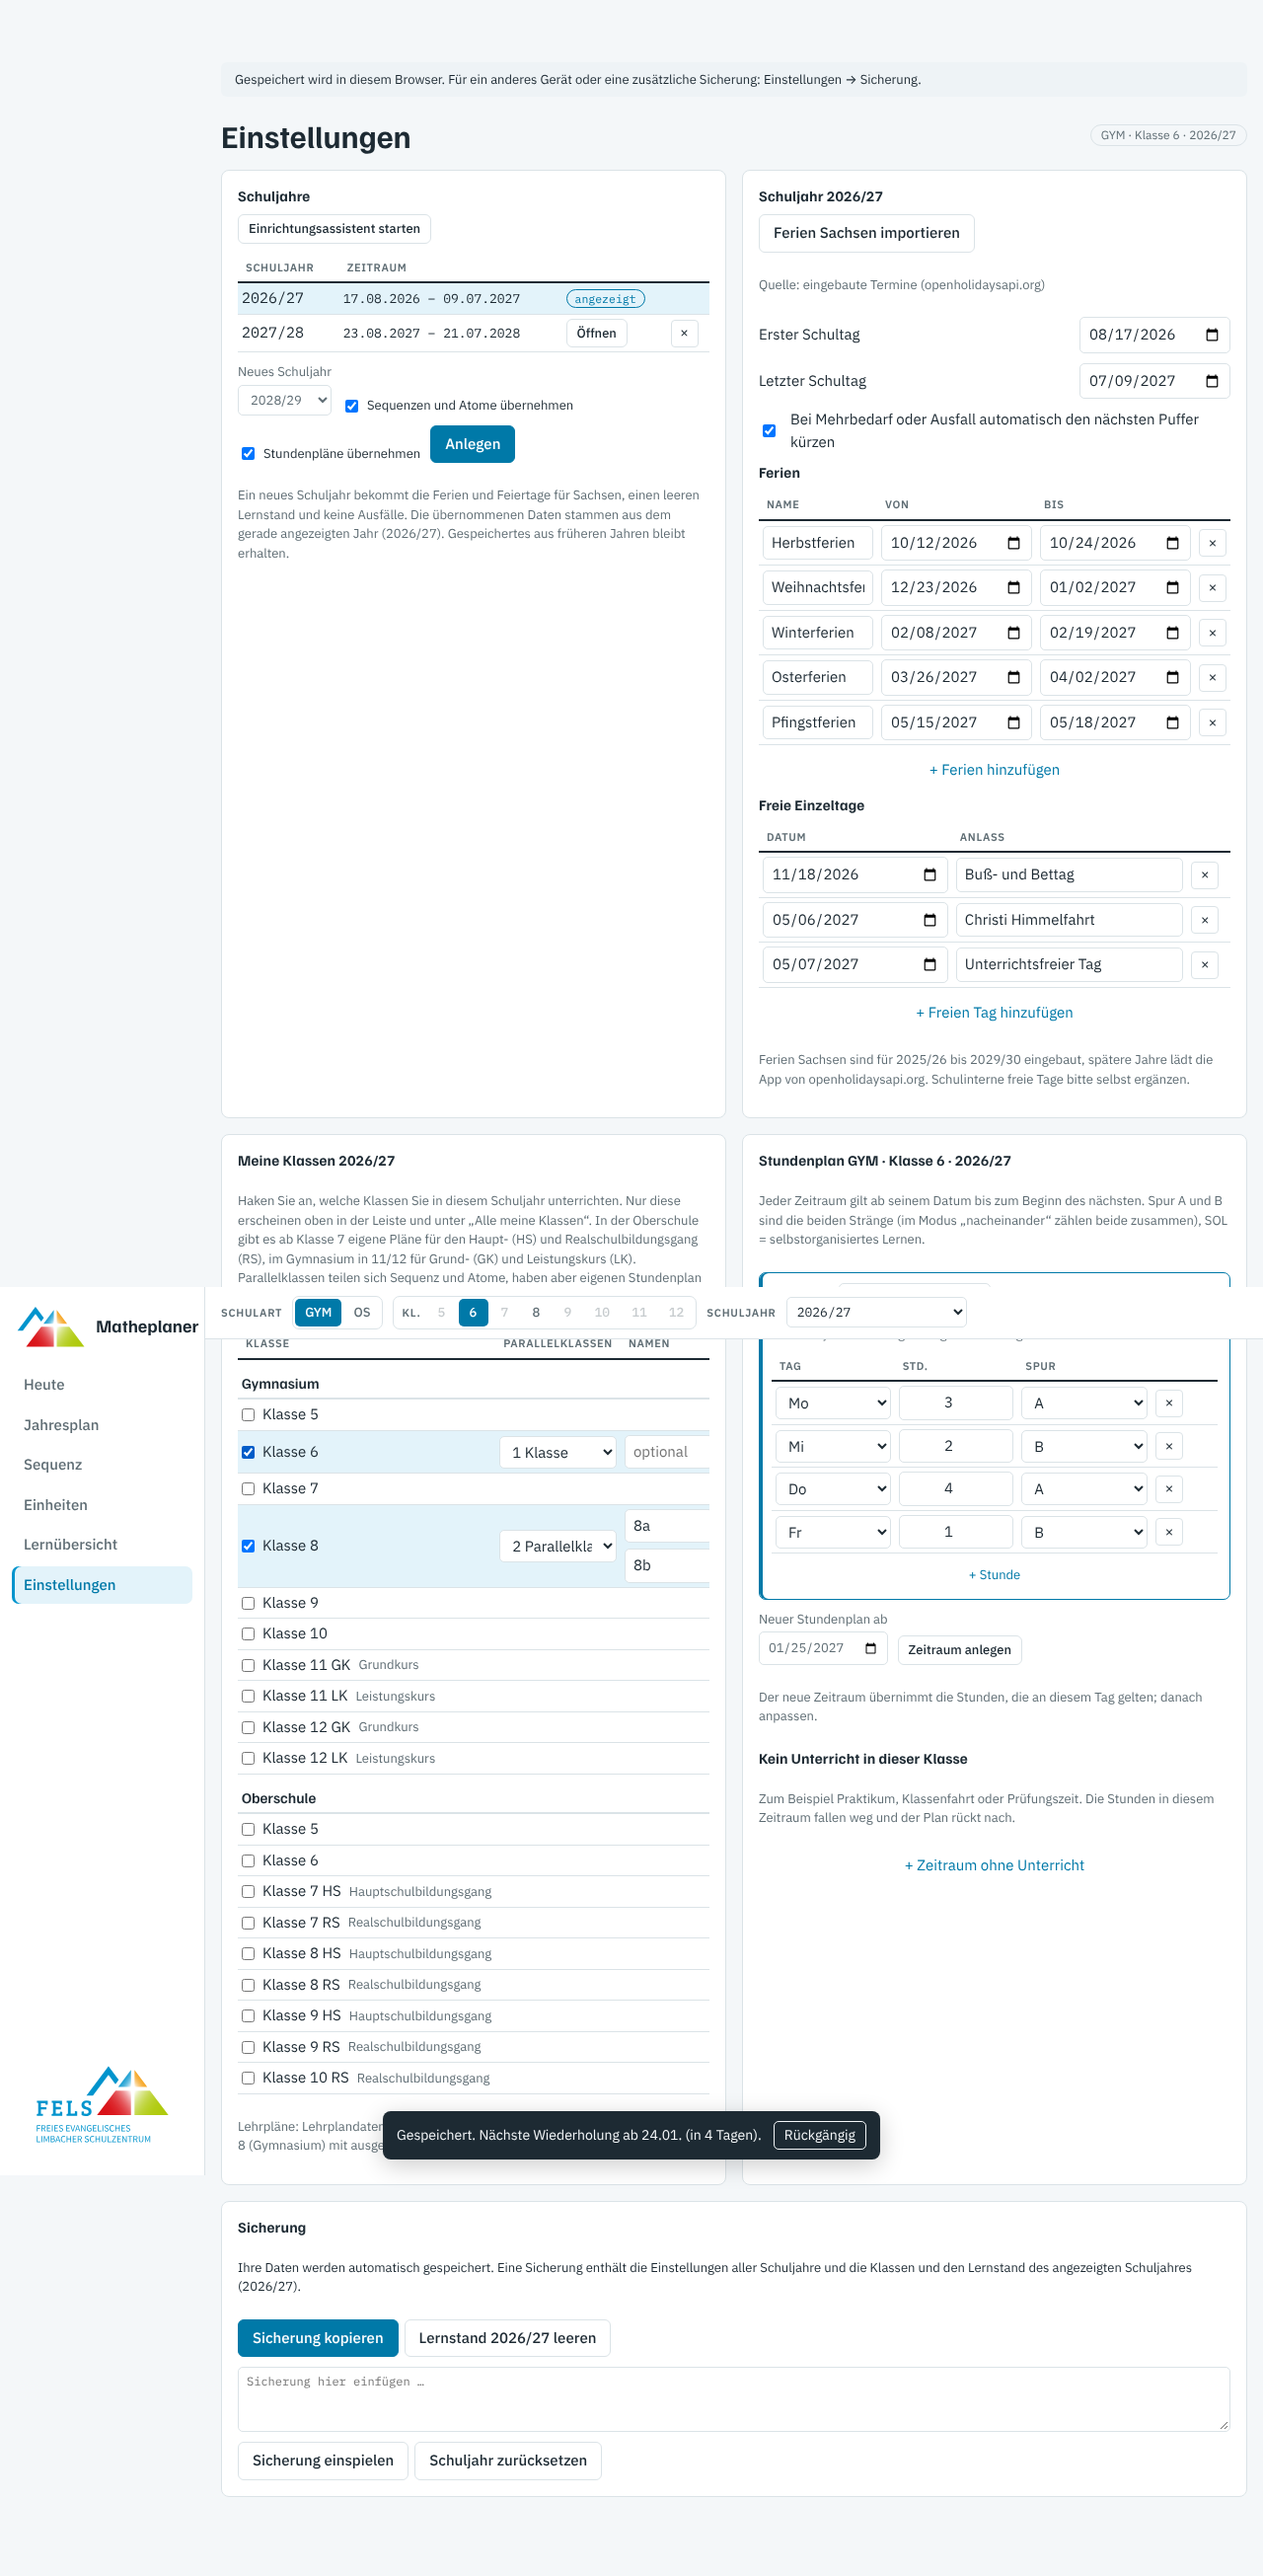
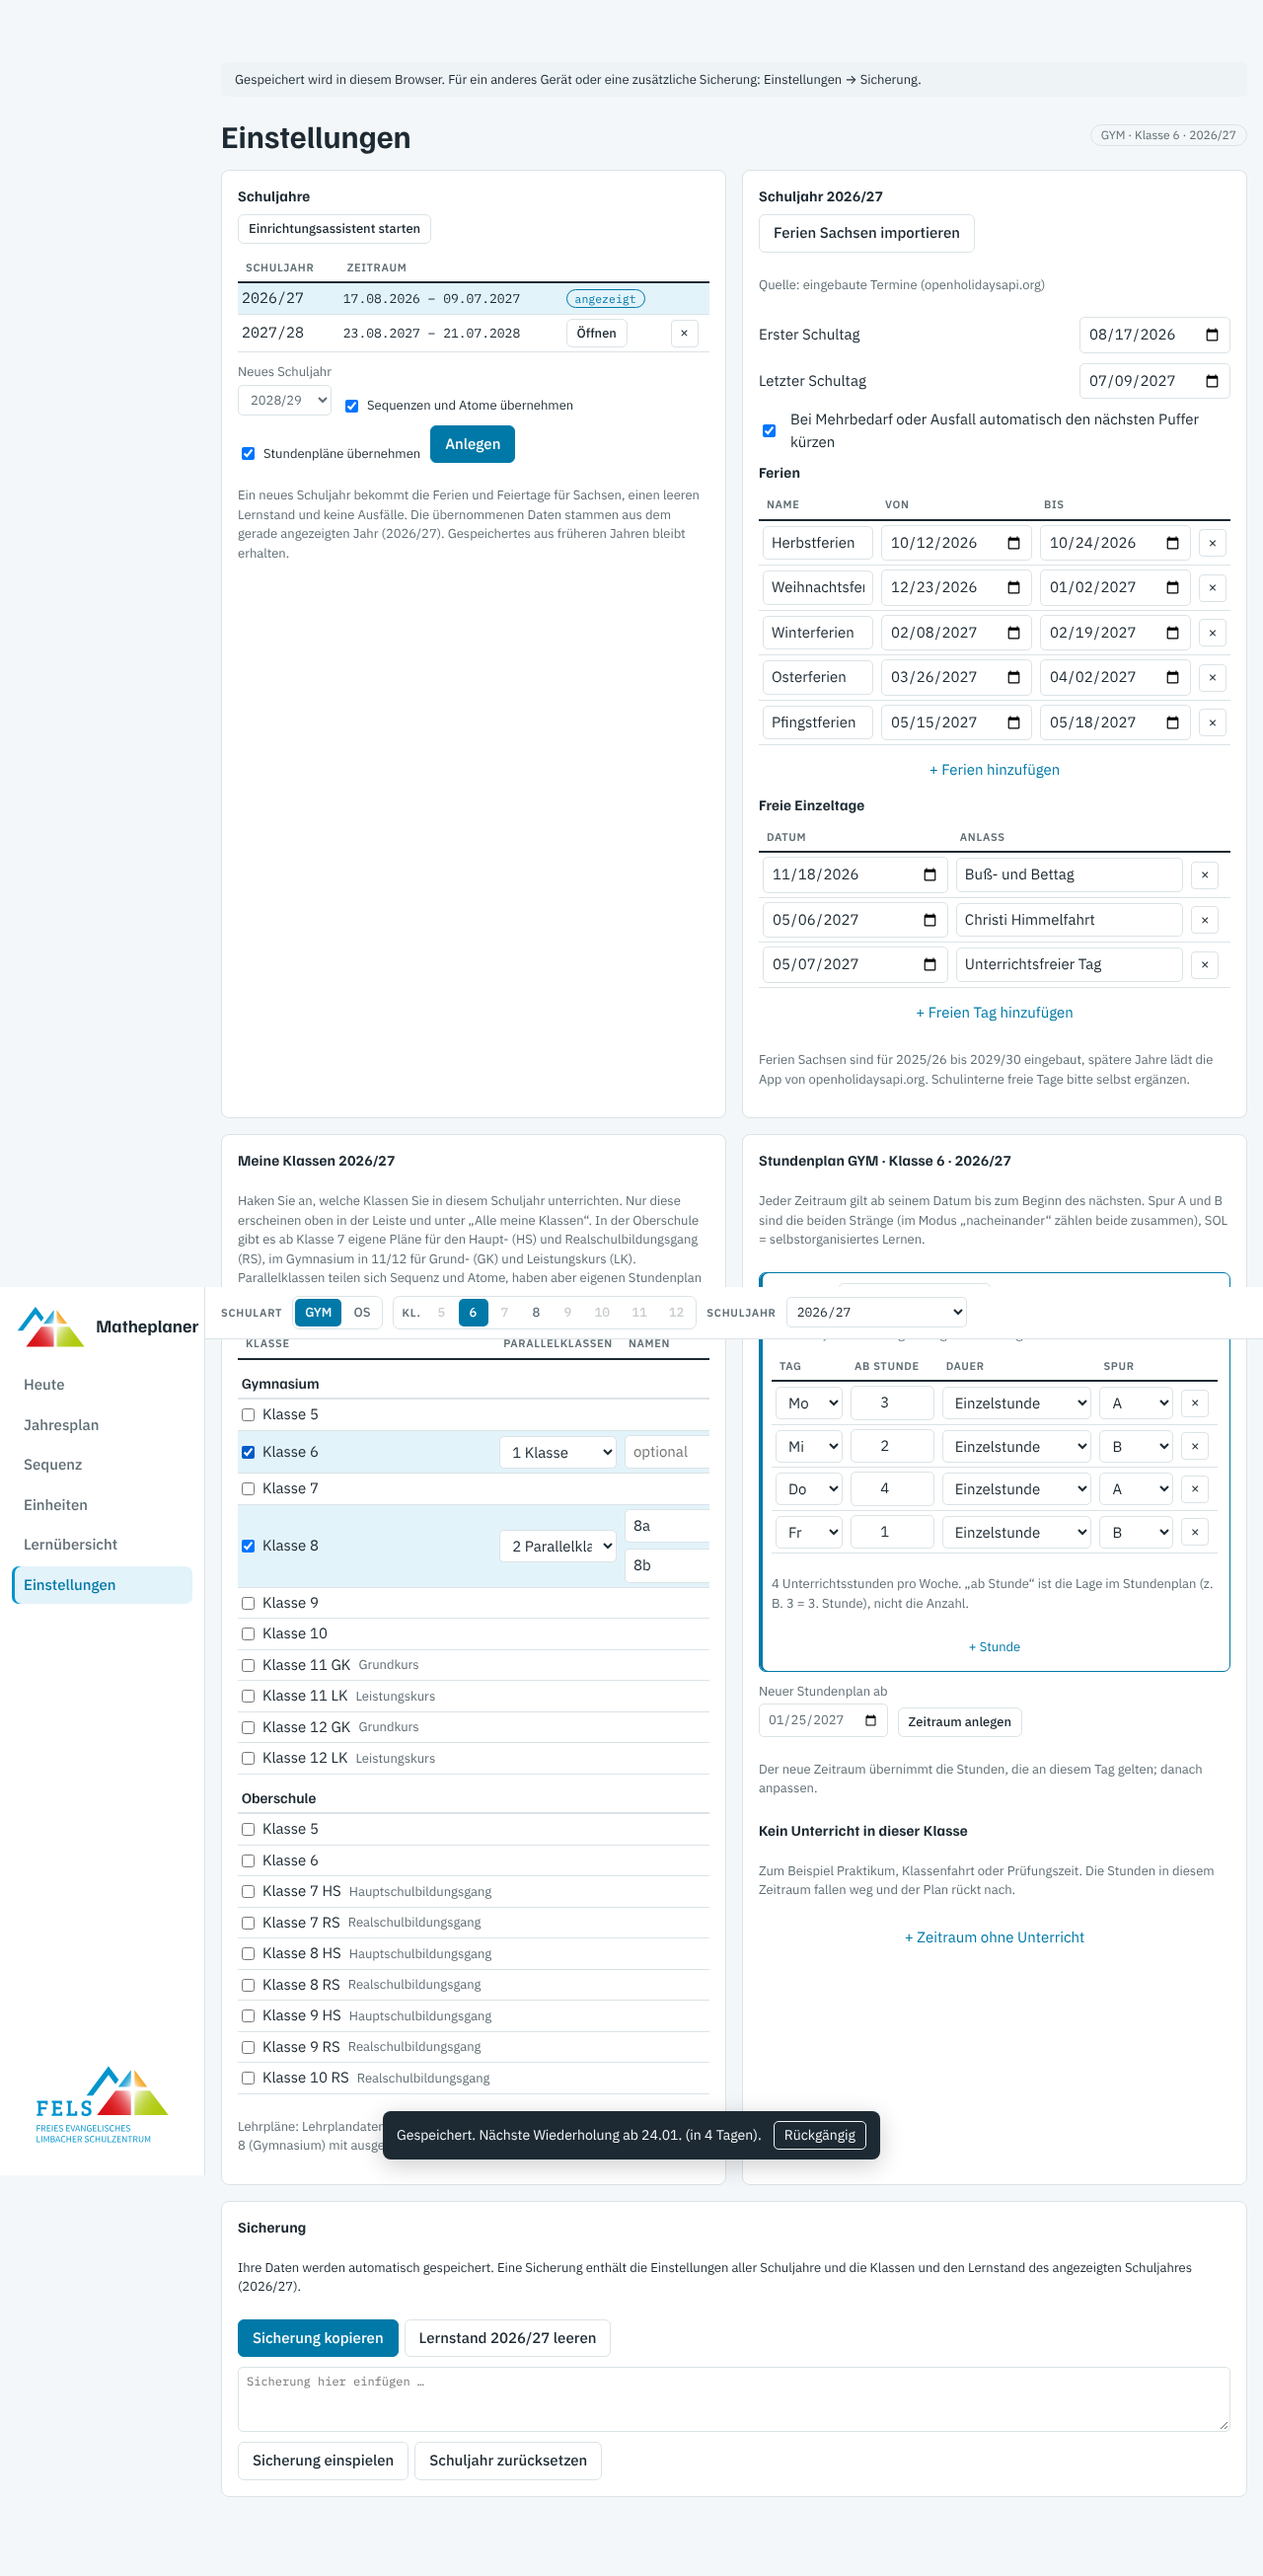
Stundenplan: Doppelstunden und eindeutige Spalte „ab Stunde“
Ein Eintrag kann jetzt Einzel- oder Doppelstunde sein; eine Doppelstunde
belegt zwei aufeinanderfolgende Stunden im Plan. Die Spalte „Std.“ heißt
„ab Stunde“, darunter steht die Summe der Unterrichtsstunden pro Woche.

Claude-Session: https://claude.ai/code/session_01LsRvvx4N56vA7fn2jwzqzo

diff --git a/dist/app.js b/dist/app.js
@@ -200,7 +200,10 @@ function defaultYear() {
 function defaultSettings() { return { years: [defaultYear()], retention: 0.9, perLesson: 5, autoBuffer: true }; }
 const sortYears = ys => ys.sort((a, b) => a.id < b.id ? -1 : a.id > b.id ? 1 : 0);
 const sortTT = tt => tt.sort((a, b) => (a.frm || "") < (b.frm || "") ? -1 : (a.frm || "") > (b.frm || "") ? 1 : 0);
-const cloneLessons = ls => ls.map(l => ({ id: uid(), day: +l.day, period: +l.period, track: l.track }));
+const cloneLessons = ls => ls.map(l => Object.assign({ id: uid(), day: +l.day, period: +l.period, track: l.track }, +l.len === 2 ? { len: 2 } : {}));
+/* Unterrichtsstunden pro Woche (Doppelstunde = 2) */
+const lessonLen = l => +l.len === 2 ? 2 : 1;
+const weekHours = ls => (ls || []).reduce((a, l) => a + lessonLen(l), 0);
 function defaultClass(k, y) {
   const c = D.classes[k]; y = y || cal();
   const tt = y.start === D.calendar.start
@@ -309,11 +312,15 @@ function schedule(g) {
       if (h || f) { dayInfo[d] = { school: false, note: h || f }; continue; }
       if (o) { dayInfo[d] = { school: false, note: o, off: true }; continue; }
       dayInfo[d] = { school: true };
+      const seen = new Set();
       for (const t of lessonsOn(d)) {
         if (+t.day !== w) continue;
         const track = t.track === "SOL" ? "SOL" : (seqMode ? "A" : (t.track === "B" ? "B" : "A"));
-        const key = d + "|" + t.period;
-        slots.push({ date: d, period: +t.period, track, key, cancelled: !!G.cancelled[key], lesson: null });
+        for (let n = 0; n < lessonLen(t); n++) {
+          const period = +t.period + n, key = d + "|" + period;
+          if (seen.has(key)) continue; seen.add(key);
+          slots.push({ date: d, period, track, key, cancelled: !!G.cancelled[key], lesson: null });
+        }
       }
     }
   }
@@ -1117,13 +1124,14 @@ function ttCard(k) {
     const current = v.frm <= UI.date && (!next || UI.date < next.frm);
     const rows = v.lessons.map((l, i) => `<tr>
       <td><select data-act="tl" data-v="${v.id}" data-i="${i}" data-f="day" aria-label="Tag">${[1, 2, 3, 4, 5].map(d => `<option value="${d}" ${+l.day === d ? "selected" : ""}>${DAYS[d]}</option>`).join("")}</select></td>
-      <td><input class="num" type="number" min="1" max="10" data-act="tl" data-v="${v.id}" data-i="${i}" data-f="period" value="${l.period}" aria-label="Stunde"></td>
+      <td><input class="num" type="number" min="1" max="10" data-act="tl" data-v="${v.id}" data-i="${i}" data-f="period" value="${l.period}" aria-label="Beginn in der wievielten Stunde"></td>
+      <td><select data-act="tl" data-v="${v.id}" data-i="${i}" data-f="len" aria-label="Dauer"><option value="1" ${lessonLen(l) === 1 ? "selected" : ""}>Einzelstunde</option><option value="2" ${lessonLen(l) === 2 ? "selected" : ""}>Doppelstunde</option></select></td>
       <td>${trackSel(v, l, i)}</td>
       <td><button type="button" class="mini del" data-act="tldel" data-v="${v.id}" data-i="${i}" aria-label="Stunde löschen">×</button></td></tr>`).join("");
     return `<div class="ttv ${current ? "cur" : ""}">
       <div class="ttvh"><label>Gültig ab <input type="date" data-act="ttfrm" data-v="${v.id}" value="${esc(v.frm)}"></label><span class="small muted">bis ${esc(until)}${current ? " · gilt am gewählten Tag" : ""}</span>
       ${vs.length > 1 ? `<button type="button" class="linkbtn small" data-act="ttdelv" data-v="${v.id}">Zeitraum löschen</button>` : ""}</div>
-      ${v.lessons.length ? `<table class="form"><thead><tr><th>Tag</th><th>Std.</th><th>Spur</th><th></th></tr></thead><tbody>${rows}</tbody></table>` : `<p class="small muted">In diesem Zeitraum hat ${esc(groupName(k))} keinen Unterricht.</p>`}
+      ${v.lessons.length ? `<table class="form"><thead><tr><th>Tag</th><th>ab Stunde</th><th>Dauer</th><th>Spur</th><th></th></tr></thead><tbody>${rows}</tbody></table><p class="small muted">${weekHours(v.lessons)} Unterrichtsstunde${weekHours(v.lessons) === 1 ? "" : "n"} pro Woche. „ab Stunde“ ist die Lage im Stundenplan (z. B. 3 = 3. Stunde), nicht die Anzahl.</p>` : `<p class="small muted">In diesem Zeitraum hat ${esc(groupName(k))} keinen Unterricht.</p>`}
       <button type="button" class="linkbtn small" data-act="tladd" data-v="${v.id}">+ Stunde</button></div>`;
   }).join("");
   const sug = UI.date > (vs.length ? vs[vs.length - 1].frm : "") && UI.date <= Y.end ? monday(UI.date) < UI.date ? addDays(monday(UI.date), 7) : UI.date : "";
@@ -1194,8 +1202,8 @@ function obTracks(k) { const c = D.classes[k]; return ["A"].concat(c.mode === "S
 function obGrid(g) {
   const k = ck(g), v = obVersion(g);
   if (!v) return "";
-  const at = (d, p) => v.lessons.find(l => +l.day === d && +l.period === p);
-  const n = v.lessons.length, multi = obTracks(k).length > 1;
+  const at = (d, p) => v.lessons.find(l => +l.day === d && +l.period <= p && p < +l.period + lessonLen(l));
+  const n = weekHours(v.lessons), multi = obTracks(k).length > 1;
   return `<div class="obgrid card"><div class="obh"><b>${esc(fullLabel(g))}</b><span class="small muted">${n} Stunde${n === 1 ? "" : "n"} pro Woche${sortTT(grp(g).tt.slice()).length > 1 ? ` · gilt ab ${esc(fmt(v.frm, { day: "2-digit", month: "2-digit", year: "numeric" }))}` : ""}</span></div>
     <table><thead><tr><th></th>${[1, 2, 3, 4, 5].map(d => `<th>${DAYS[d]}</th>`).join("")}</tr></thead><tbody>
     ${OB_PERIODS.map(p => `<tr><th class="mono">${p}.</th>${[1, 2, 3, 4, 5].map(d => { const l = at(d, p);
@@ -1204,6 +1212,8 @@ function obGrid(g) {
 }
 function obToggle(g, d, p) {
   const v = obVersion(g), k = ck(g); if (!v) return;
+  const dbl = v.lessons.find(l => +l.day === d && lessonLen(l) === 2 && +l.period <= p && p <= +l.period + 1);
+  if (dbl) { const ls = [0, 1].map(n => Object.assign({}, dbl, { id: uid(), period: +dbl.period + n })); ls.forEach(l => delete l.len); v.lessons.splice(v.lessons.indexOf(dbl), 1, ...ls); }
   const i = v.lessons.findIndex(l => +l.day === d && +l.period === p), tracks = obTracks(k);
   if (i < 0) v.lessons.push({ id: uid(), day: d, period: p, track: "A" });
   else { const n = tracks.indexOf(v.lessons[i].track) + 1; if (n > 0 && n < tracks.length) v.lessons[i].track = tracks[n]; else v.lessons.splice(i, 1); }
@@ -1234,7 +1244,7 @@ function viewOnboarding() {
     ${myGroups().length ? `<div class="obgrids">${mine.flatMap(groupsOf).map(obGrid).join("")}</div>` : `<p class="muted">Sie haben noch keine Klasse gewählt. <button type="button" class="linkbtn" data-act="obstep" data-v="1">Zurück zu den Klassen</button></p>`}`;
   else body = `<h2>Fertig</h2>
     <p>Ihr Schuljahr ${esc(yearLabel(Y.id))} ist eingerichtet:</p>
-    <ul>${mine.flatMap(groupsOf).map(g => `<li>${esc(fullLabel(g))}: ${obVersion(g) ? obVersion(g).lessons.length : 0} Stunden pro Woche</li>`).join("") || "<li>keine Klasse gewählt</li>"}</ul>
+    <ul>${mine.flatMap(groupsOf).map(g => `<li>${esc(fullLabel(g))}: ${obVersion(g) ? weekHours(obVersion(g).lessons) : 0} Stunden pro Woche</li>`).join("") || "<li>keine Klasse gewählt</li>"}</ul>
     <p class="small muted">Die Sequenz jeder Klasse folgt dem Lehrplan; Reihenfolge und Stunden passen Sie unter „Sequenz“ an. Alle Angaben lassen sich unter „Einstellungen“ ändern, den Assistenten starten Sie dort erneut.</p>`;
   return `<div class="ov-card onboard" role="dialog" aria-label="Einrichtung">
     <header><span class="lbl">Einrichtung · Schritt ${st + 1} von ${OB_STEPS.length}</span><button type="button" class="iconbtn" data-act="obskip" aria-label="Assistent schließen">×</button></header>
@@ -1470,7 +1480,7 @@ document.addEventListener("change", ev => {
     case "engstart": if (t.value) { cal().engineStart = t.value; commit(null, { settings: true }); } break;
     case "hol": cal().holidays[i][f] = t.value; commit(null, { settings: true }); break;
     case "free": cal().free[i][f] = t.value; commit(null, { settings: true }); break;
-    case "tl": { const v = ttVersion(curG(), t.dataset.v), row = v && v.lessons[i]; if (!row) break; row[f] = f === "track" ? t.value : Math.max(1, Math.round(+t.value || 1)); commit(k); break; }
+    case "tl": { const v = ttVersion(curG(), t.dataset.v), row = v && v.lessons[i]; if (!row) break; if (f === "track") row.track = t.value; else if (f === "len") { if (t.value === "2") row.len = 2; else delete row.len; } else row[f] = Math.max(1, Math.round(+t.value || 1)); commit(k); break; }
     case "ttfrm": { const G = grp(curG()), v = ttVersion(curG(), t.dataset.v); if (!v || !t.value) break; if (G.tt.some(x => x !== v && x.frm === t.value)) { toast("Ab diesem Datum gibt es schon einen Stundenplan."); render(); break; } v.frm = t.value; sortTT(G.tt); commit(k); break; }
     case "mine": {
       const Y = cal(), l = mineList(), kk = t.dataset.k;

diff --git a/src/test.js b/src/test.js
@@ -278,6 +278,13 @@ function serve(dir) {
   await p.evaluate(() => location.hash = 'sequenz'); await p.waitForTimeout(200);
   ok((await p.innerText('main')).includes('Zeitrichtwert'), 'Sequenz OS 7 HS mit Zeitrichtwerten');
   await p.evaluate(() => location.hash = 'einstellungen'); await p.waitForTimeout(150);
+  // Doppelstunde: ein Eintrag mit Dauer 2 belegt zwei aufeinanderfolgende Stunden
+  const slotsWeek = () => p.evaluate(() => window.__mp.schedule('os7hs.a').slots.filter(s => s.date >= '2026-11-16' && s.date <= '2026-11-20').map(s => s.date.slice(8) + '/' + s.period).join(','));
+  const dsBefore = await slotsWeek();
+  await p.selectOption('.ttv.cur select[data-f="len"][data-i="0"]', '2'); await p.waitForTimeout(150);
+  const dsAfter = await slotsWeek();
+  ok(dsBefore.split(',').length === 4 && dsAfter.split(',').length === 5 && dsAfter.includes('16/2') && dsAfter.includes('16/3') && (await p.innerText('.ttv.cur')).includes('5 Unterrichtsstunden pro Woche'), 'Doppelstunde zählt im Plan als zwei Stunden ' + dsBefore + ' → ' + dsAfter);
+  await p.selectOption('.ttv.cur select[data-f="len"][data-i="0"]', '1'); await p.waitForTimeout(150);
   await p.uncheck('[data-act="mine"][data-k="os7hs"]'); await p.uncheck('[data-act="mine"][data-k="os7rs"]'); await p.waitForTimeout(150);
   ok(await p.evaluate(() => window.__mp.UI.type === 'gym' && ['kl6', 'kl8'].includes(window.__mp.UI.cls)), 'Nach dem Abwählen zurück zu einer eigenen GYM-Klasse');
   await p.waitForTimeout(900);

diff --git a/README.md b/README.md
@@ -72,7 +72,8 @@ NODE_PATH=$(npm root -g) node src/test.js   # startet einen lokalen Webserver, S
   - Schuljahre anlegen und wechseln; ein neues Jahr bekommt die Ferien Sachsen und übernimmt auf Wunsch Sequenz, Atome und Stundenplan.
   - „Ferien Sachsen importieren“ ersetzt Beginn, Ende, Ferien und freie Tage des angezeigten Jahres
     (eingebaut 2025/26–2029/30, spätere Jahre live von openholidaysapi.org).
-  - Stundenplan je Klasse in Zeiträumen („gültig ab“); dazu Zeiträume ohne Unterricht (Praktikum, Klassenfahrt).
+  - Stundenplan je Klasse in Zeiträumen („gültig ab“): je Eintrag Tag, „ab Stunde“ (Lage im Stundenplan), Dauer
+    (Einzel- oder Doppelstunde, zählt als 2 Stunden) und Spur; dazu Zeiträume ohne Unterricht (Praktikum, Klassenfahrt).
   - Sicherung als Text oder Datei.
 
 Gespeichert wird in der Datenbank des Artefakts: `planner/settings` (Schuljahre mit „Meine Klassen“ in `years[].classes`, Einstellungen der Wiederholung) und je Schuljahr
